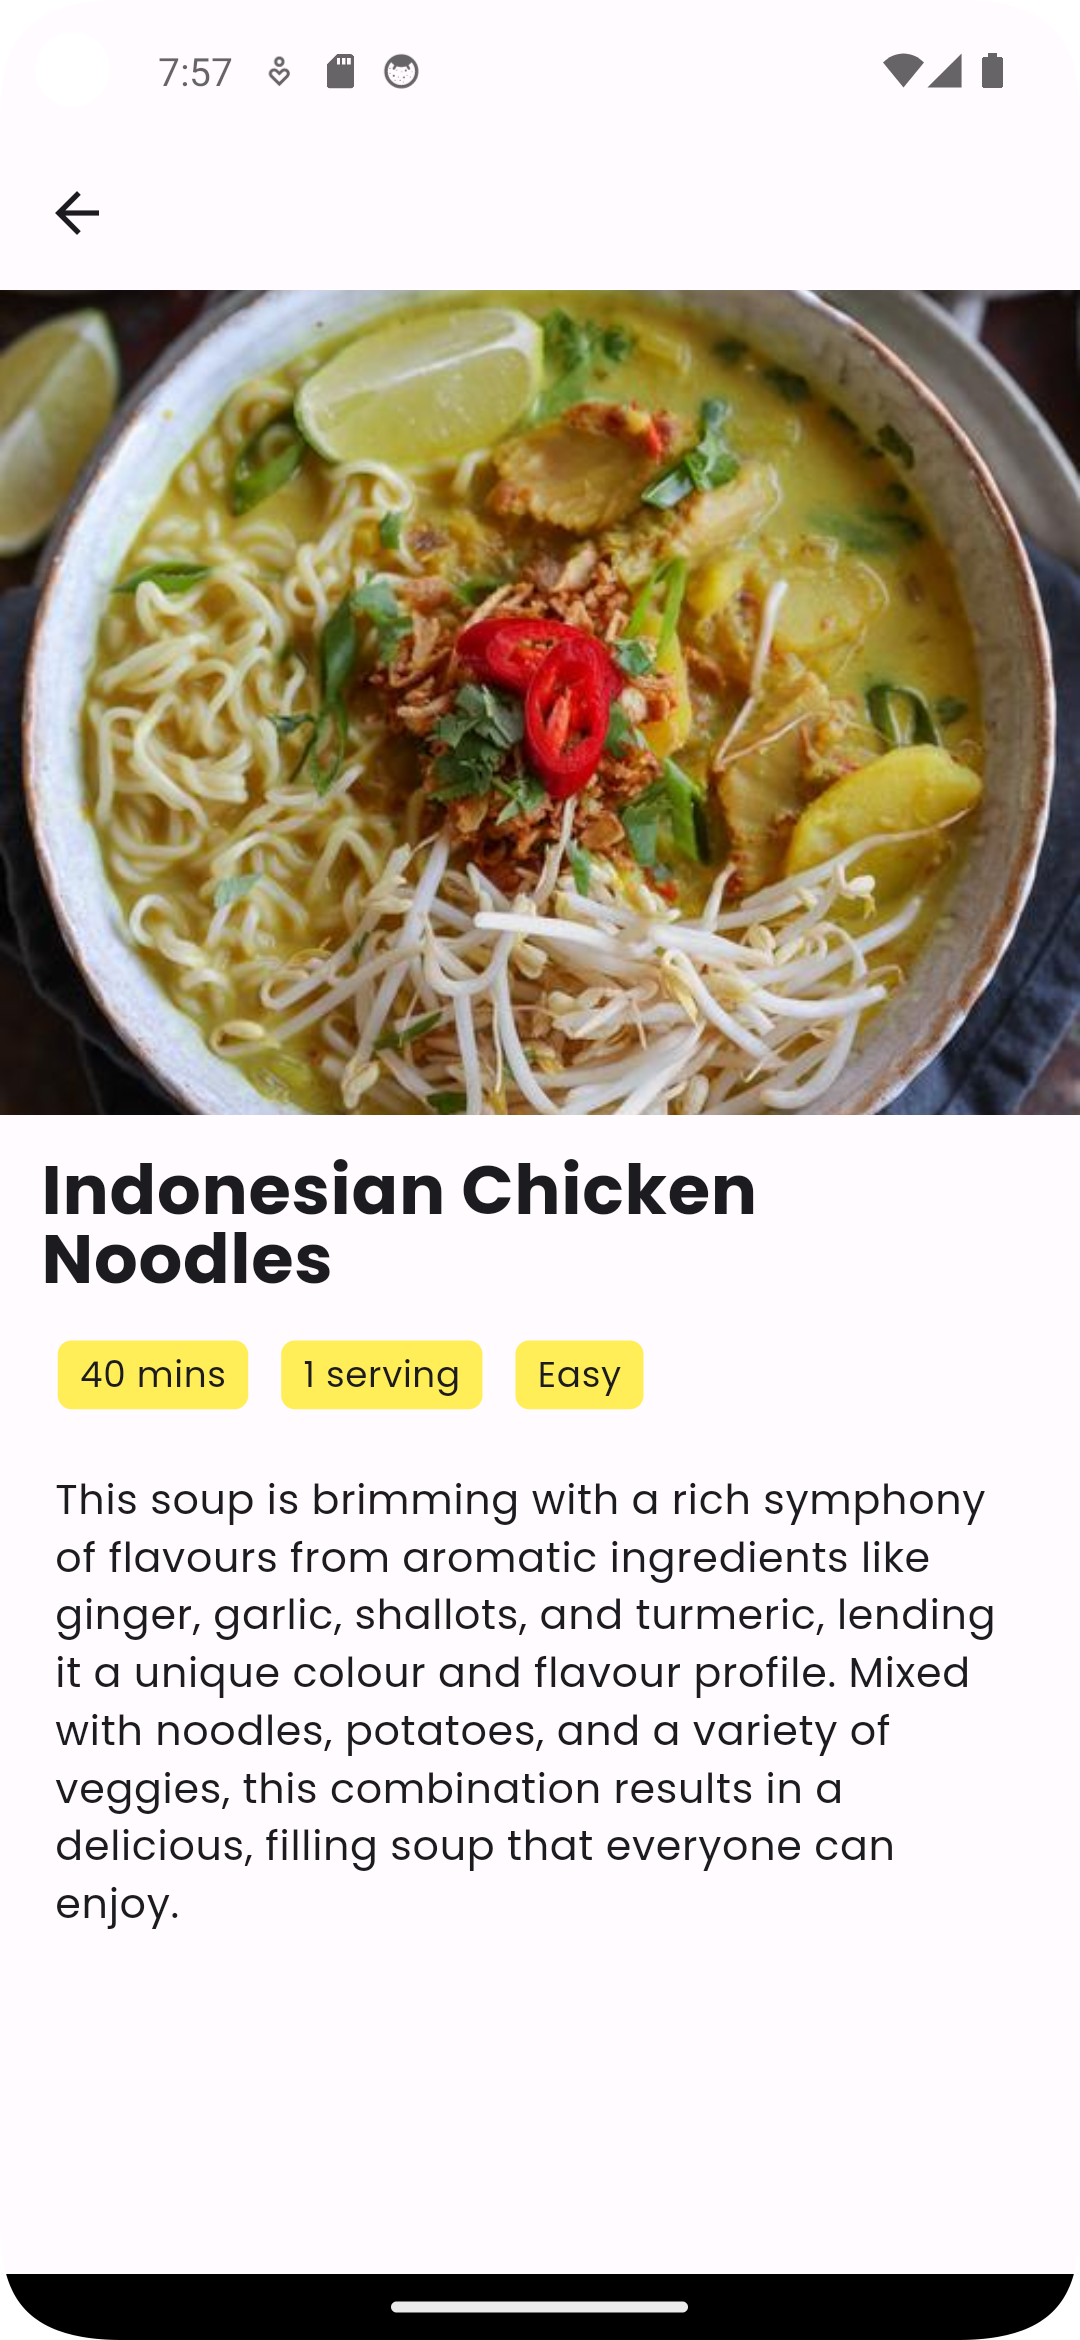
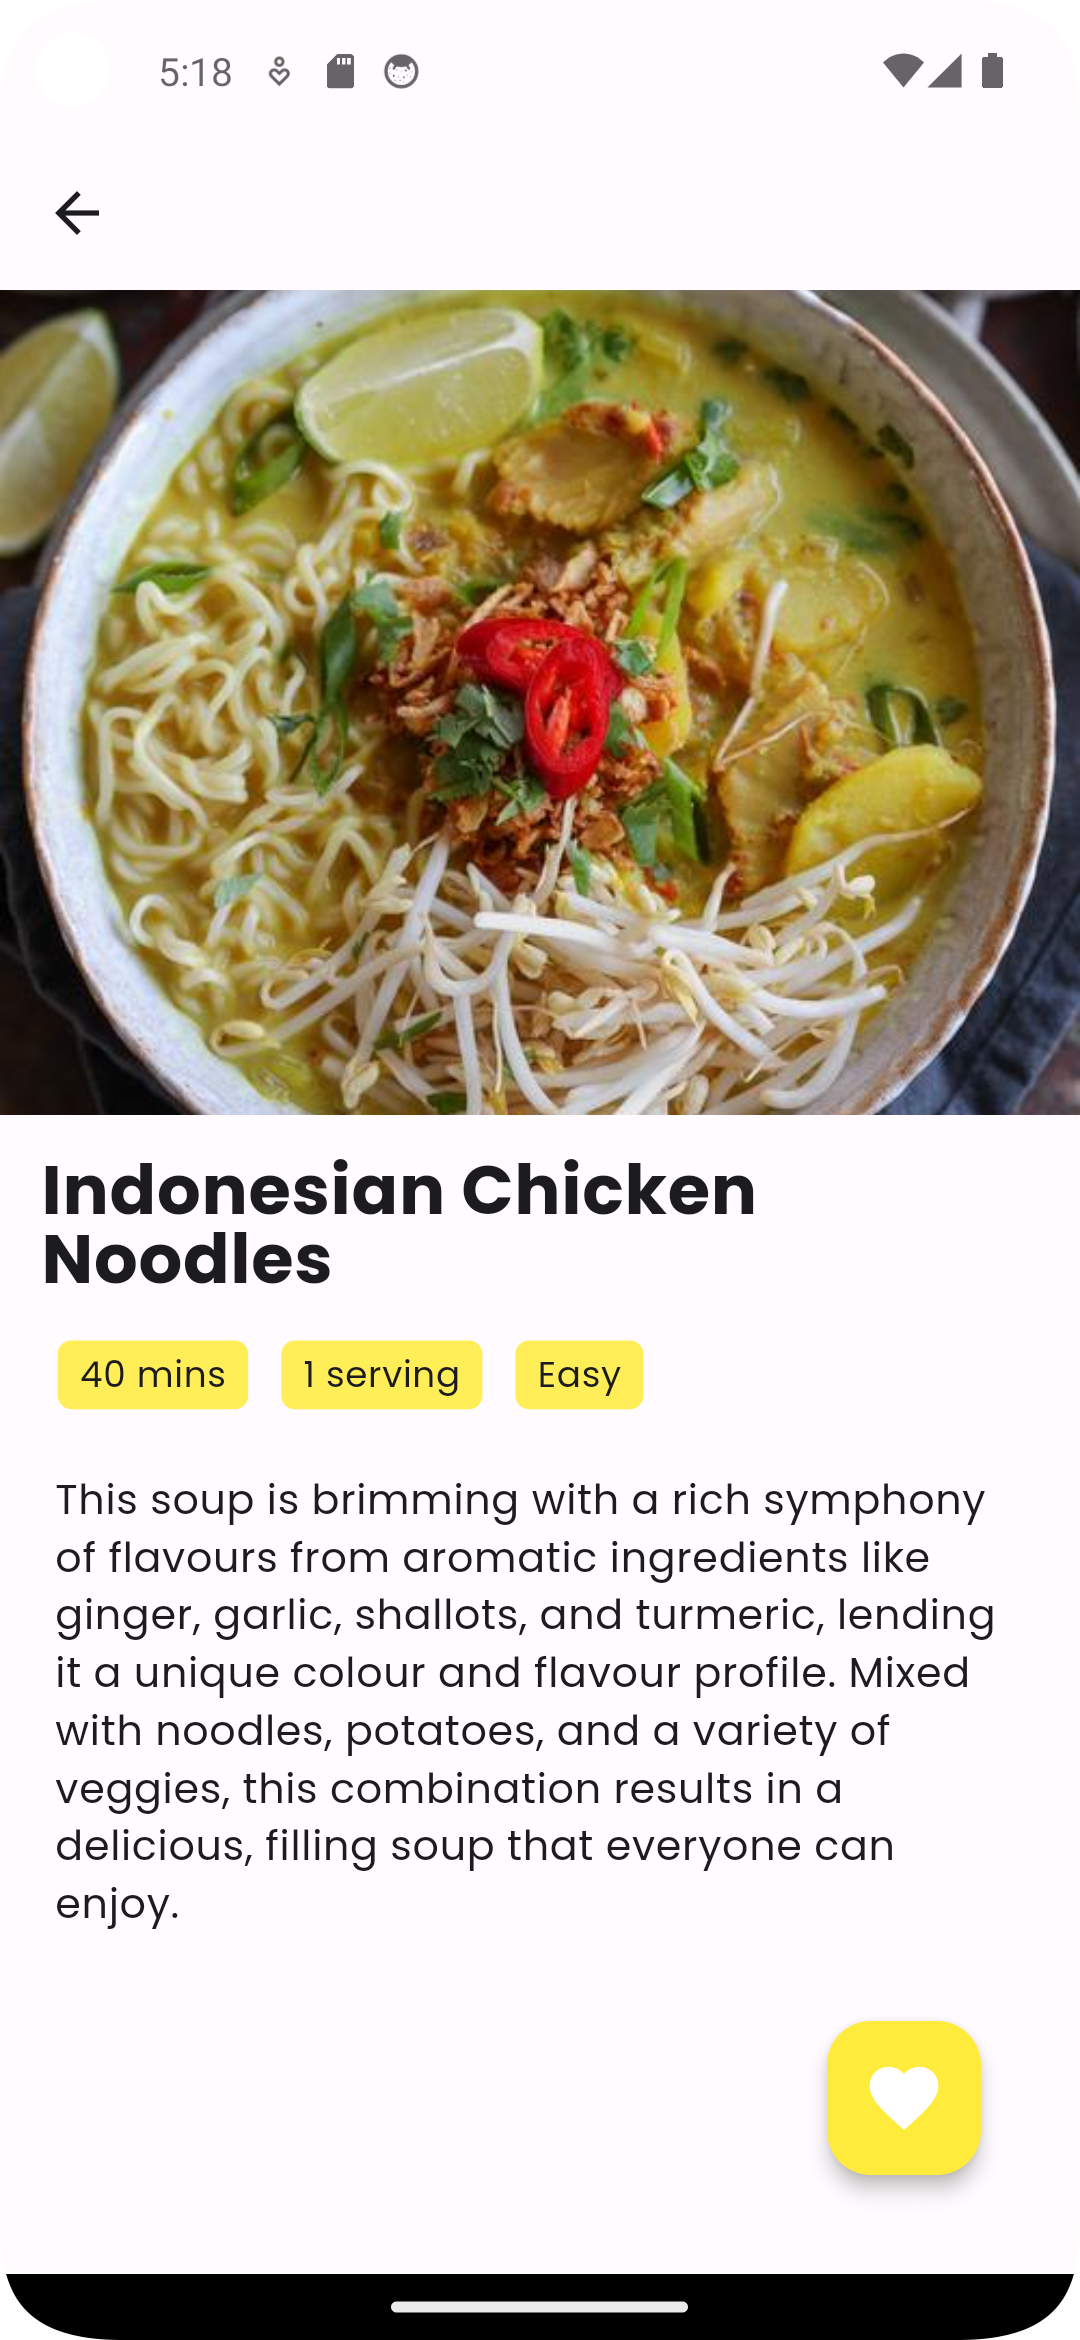
added favourites page

Changed region(s): [[0.7639, 0.8423, 0.9167, 0.9359], [0.1833, 0.0312, 0.2139, 0.0624]]

diff --git a/lib/pages/favouritespage.dart b/lib/pages/favouritespage.dart
@@ -1,0 +1,55 @@
+import 'package:burntbrotta/models/favourites.dart';
+import 'package:flutter/material.dart';
+import 'package:google_fonts/google_fonts.dart';
+import 'package:provider/provider.dart';
+
+import '../models/food.dart';
+
+class FavouritesPage extends StatelessWidget {
+  const FavouritesPage({super.key});
+
+  removefavs(Food food, BuildContext context) {
+    final favs = context.read<Favourites>();
+    favs.removefromfavs(food);
+  }
+  @override
+  Widget build(BuildContext context) {
+    return Consumer<Favourites>(builder: (context, value, child) => Scaffold(
+        appBar: AppBar(title: Text("Favourites", style: GoogleFonts.climateCrisis(fontSize: 25, height: 0.9, fontWeight: FontWeight.w100),),
+        ),
+    body: value.favs.isNotEmpty? ListView.builder(itemCount: value.favs.length ,itemBuilder: (context, index){
+      final Food food = value.favs[index];
+      return Padding(
+        padding: const EdgeInsets.all(8.0),
+        child: Container(
+          decoration: BoxDecoration(color: Colors.yellow[300], borderRadius: BorderRadius.circular(15)),
+          height: 120,
+          child: Padding(
+            padding: const EdgeInsets.all(8.0),
+            child: Row(
+              mainAxisAlignment: MainAxisAlignment.spaceEvenly,
+              crossAxisAlignment: CrossAxisAlignment.center,
+              children: [
+                Container(
+                    width: 100,
+                    child: ClipRRect(
+                        borderRadius: BorderRadius.circular(10),
+                        child: Image.asset(food.imgpath, fit: BoxFit.cover,))),
+                Flexible(child: Padding(
+                    padding: const EdgeInsets.all(8.0),
+                    child: ListTile(title: Text(food.name, style: GoogleFonts.poppins(fontSize:16, fontWeight: FontWeight.w500),
+                    ), subtitle: Text(food.level, style: GoogleFonts.poppins(fontSize:14),
+                    )))),
+                IconButton(onPressed: removefavs(food, context), icon: Icon(Icons.delete, color: Colors.black,))
+
+              ],
+            ),
+          ),
+        ),
+      );
+
+    }) : const Center(child: Text("No Favourites Added Yet!")))
+    );
+  }
+
+}

diff --git a/lib/pages/foodDetails.dart b/lib/pages/foodDetails.dart
@@ -1,8 +1,10 @@
+
+import 'package:burntbrotta/models/favourites.dart';
 import 'package:burntbrotta/pages/button2.dart';
 import 'package:burntbrotta/pages/yellowbox.dart';
 import 'package:flutter/material.dart';
 import 'package:google_fonts/google_fonts.dart';
-
+import 'package:provider/provider.dart';
 import '../models/food.dart';
 
 class FoodDetails extends StatefulWidget {
@@ -14,9 +16,38 @@ class FoodDetails extends StatefulWidget {
 }
 
 class _FoodDetailsState extends State<FoodDetails> {
+  addtofavs() {
+    final favs = context.read<Favourites>();
+    favs.addtofavs(widget.food);
+    showDialog(context: context,
+        builder:(context)=> AlertDialog(shape: RoundedRectangleBorder(
+          borderRadius: BorderRadius.circular(10),
+
+        ),
+            content: Text("Successfully Added to Favourites! 😊😍", style: GoogleFonts.poppins(fontSize: 18,), textAlign: TextAlign.center,),
+          actions: [
+            Center(
+              child: IconButton(onPressed: (){
+                Navigator.pop(context);
+                Navigator.pop(context);
+                }, icon: Icon(Icons.check)),
+
+            )
+          ],
+        ));
+  }
   @override
   Widget build(BuildContext context) {
     return Scaffold(
+      floatingActionButton: Padding(
+        padding: const EdgeInsets.all(20.0),
+        child: FloatingActionButton(onPressed: addtofavs,
+          child: Icon(Icons.favorite, size: 30, color: Colors.white,),
+          backgroundColor: Colors.yellow,
+
+        ),
+
+      ),
       appBar: AppBar(),
         body: Expanded(child: ListView(
 
@@ -66,4 +97,6 @@ class _FoodDetailsState extends State<FoodDetails> {
       ),)
     );
   }
+
+
 }

diff --git a/lib/main.dart b/lib/main.dart
@@ -1,9 +1,12 @@
+import 'package:burntbrotta/models/favourites.dart';
+import 'package:burntbrotta/pages/favouritespage.dart';
 import 'package:burntbrotta/pages/homepage.dart';
 import 'package:burntbrotta/pages/recipies.dart';
 import 'package:flutter/material.dart';
+import 'package:provider/provider.dart';
 
 void main() {
-  runApp(const MyApp());
+  runApp(ChangeNotifierProvider(create: (context)=> Favourites(), child: MyApp(),));
 }
 class MyApp extends StatelessWidget {
   const MyApp({super.key});
@@ -16,6 +19,7 @@ class MyApp extends StatelessWidget {
       routes: {
         "/homepage": (context) => HomePage(),
         "/recipies": (context) => RecipiesPage(),
+        "/favourites": (context) => FavouritesPage(),
       },
     );
   }

diff --git a/lib/pages/recipies.dart b/lib/pages/recipies.dart
@@ -31,6 +31,10 @@ class RecipiesPage extends StatelessWidget {
     return Scaffold(
       appBar: AppBar(title: Text("BURNT BROTTA", style: GoogleFonts.climateCrisis(fontSize: 20, height: 0.9),),
           leading: const Icon(Icons.menu),
+        actions: [Padding(
+          padding: const EdgeInsets.all(8.0),
+          child: IconButton(onPressed: (){Navigator.pushNamed(context, "/favourites");}, icon: Icon(Icons.favorite)),
+        )],
       ),
           body: Expanded(
             child: Column(

diff --git a/lib/models/favourites.dart b/lib/models/favourites.dart
@@ -1,0 +1,25 @@
+import 'package:flutter/cupertino.dart';
+import 'food.dart';
+
+class Favourites extends ChangeNotifier{
+  List<Food> _favs = [];
+
+  // getter methods
+  List<Food> get favs => _favs;
+
+  void addtofavs(Food food){
+    if (!_favs.contains(food)){
+      _favs.add(food);
+    }
+
+    notifyListeners();
+  }
+
+  void removefromfavs(Food food){
+    if (!_favs.contains(food)) {
+      _favs.remove(food);
+    }
+    notifyListeners();
+  }
+
+}
